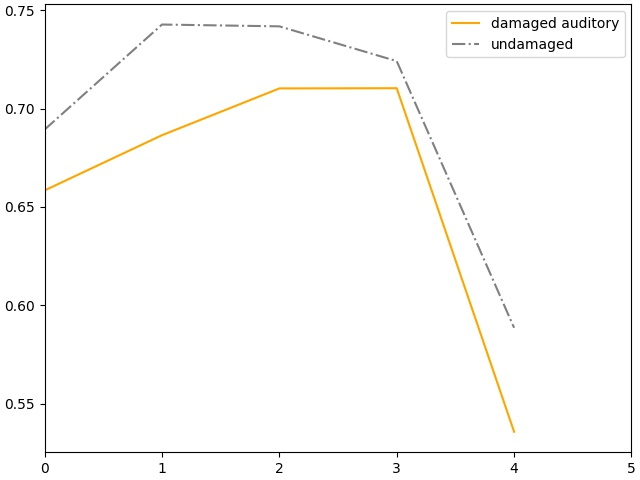
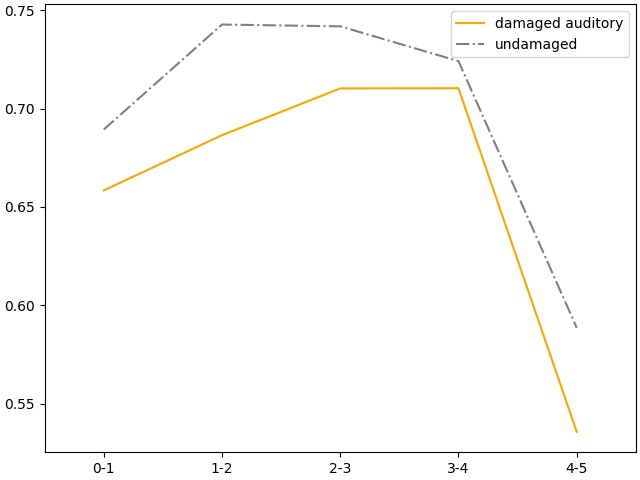
added bins

diff --git a/08_plot_brain_results.py b/08_plot_brain_results.py
@@ -102,7 +102,9 @@ for damage in damages:
         mod_undam_ys = numpy.average(undam_results, axis=1)
         ax.plot(mod_xs, mod_dam_ys, color='orange', label='damaged auditory')
         ax.plot(mod_xs, mod_undam_ys, color='grey', ls='-.', label='undamaged')
-        ax.set_xlim(left=0., right=5.)
+        ax.set_xlim(left=-.5, right=4.5)
+        ax.set_xticks(mod_xs)
+        ax.set_xticklabels(['0-1', '1-2', '2-3', '3-4', '4-5'])
         ax.legend()
         file_out = os.path.join(plot_folder, 'bins_brain_rsa_fernandino{}_{}.jpg'.format(dataset, damage))
         print(file_out)
